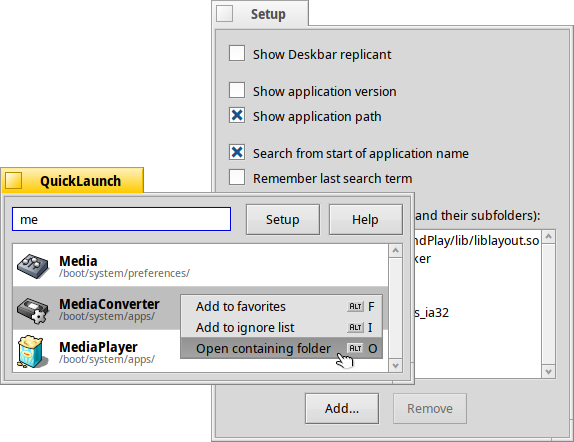
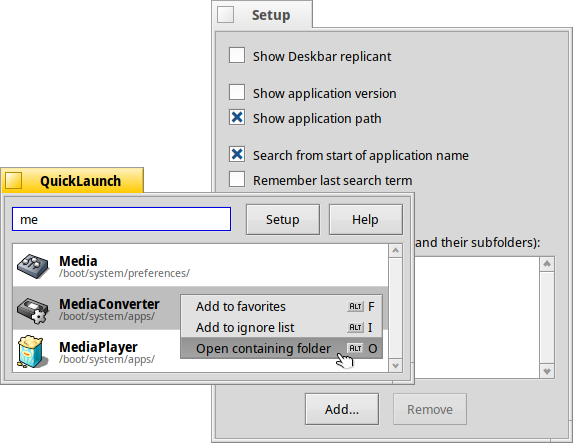
Update Readme and screenshots

Changed region(s): [[0.0, 0.0, 1.0, 1.0], [0.5044, 0.9118, 0.534, 0.9412]]

diff --git a/ReadMe.html b/ReadMe.html
@@ -144,6 +144,7 @@ A right-click on it also offers quick access to your favorites.</p>
 <li><p><span class="menu">Show the version of an application</span> — only really useful when having older and newer versions of an app installed.</p></li>
 <li><p><span class="menu">Show the path to an application</span> —  interesting when you have several copies of an application.</p></li>
 <li><p><span class="menu">Search from start of application name</span> —  when unchecked, finds all applications with the search term anywhere in their name, not only with those initial letters. Same as starting a search with a '*' as first letter.</p></li>
+<li><p><span class="menu">Sort favorite items to the top</span> — after entering a search term, list the matching favorites first instead of all the results strictly alphabetically.</p></li>
 <li><p><span class="menu">Remember last search term</span> — starts QuickLaunch with the previous search.</p></li>
 <li><p><span class="menu">Ignore these files &amp; folders (and their subfolders)</span> that you can add and remove from the list with the buttons at the bottom.<br />
 You can also right-click an app in the main window's result list to add that specific app to the ignore list or drag &amp; drop any application or folder from Tracker or an app from QuickLaunch's main window into it.<br />
@@ -196,6 +197,12 @@ Alexey Lugin&nbsp;(uk), Briseur and oco27&nbsp;(fr), deejam and Knezzen&nbsp;(sv
 <h2>
 <a href="#"><img src="images/up.png" style="border:none;float:right" alt="index" /></a>
 <a id="history" name="history">History</a></h2>
+<p><b>1.3.4</b> - <i>dd-mm-2022:</i></p>
+<ul>
+<li>Fix possible crash if getting the version info failed (by augiedoggie).</li>
+<li>New option to sort favorite items to the top of the result list (by augiedoggie).<li>
+</ul>
+
 <p><b>1.3.3</b> - <i>30-05-2019:</i></p>
 <ul>
 <li>All Quicklaunch windows being modal, one couldn't drag'n'drop files from Tracker into the 'Ignore list' of the Setup window. Solved by making the windows 'normal' while the Setup window is open.</li>
